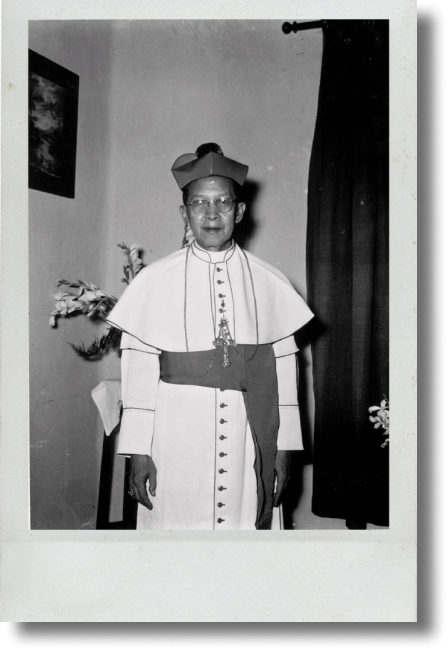
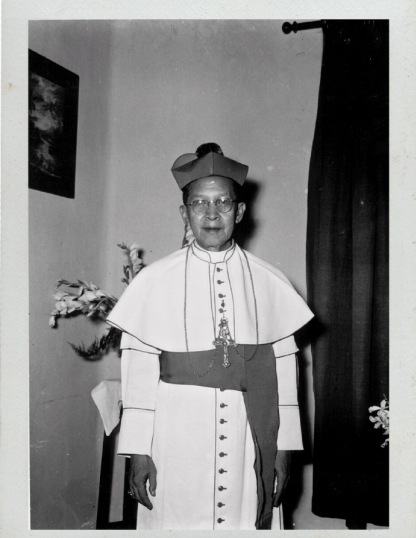
mengubah desain gambar pada halaman sejarah

diff --git a/sejarah.html b/sejarah.html
@@ -90,11 +90,13 @@
     <section class="container-fluid" id="sejarah">
         <div class="row sejarah-item sejarah-white">
             <div class="col-sm">
-                <img class="img-fluid" src="assets/img/gambar-sejarah.png" alt="">
+                <div class="img-container">
+                    <img class="img-fluid" src="assets/img/gambar-sejarah.png" alt="">
+                    <h4>Arsip SMA Kolose De Britto</h4>
+                </div>
             </div>
 
             <div class="col-sm">
-                <h1>Arsip SMA Kolese De Britto</h1>
                 <p>
                     SMA yang lebih dikenal dengan nama De Britto atau “JB” (kependekan dari Johanes De Britto) ini
                     mempunyai
@@ -169,13 +171,19 @@
             </div>
 
             <div class="col-sm">
-                <img src="assets/img/gambar-sejarah-2.png" class="img-fluid">
+                <div class="img-container">
+                    <img src="assets/img/gambar-sejarah-2.png" class="img-fluid">
+                </div>
+
             </div>
         </div>
 
         <div class="row sejarah-item sejarah-white">
             <div class="col-sm">
-                <img class="img-fluid" src="assets/img/gambar-sejarah-3.png" alt="">
+                <div class="img-container">
+                    <img class="img-fluid" src="assets/img/gambar-sejarah-3.png" alt="">
+                    <h4>Arsip SMA Kolose De Britto</h4>
+                </div>
             </div>
 
             <div class="col-sm">

diff --git a/css/addition.css b/css/addition.css
@@ -758,7 +758,7 @@ footer .logo-jb {
     border: none;
     border-radius: 0;
     font-family: poppins;
-
+    transition: background-color 0.2s ease;
 }
 
 .dropdown-item {
@@ -771,7 +771,7 @@ footer .logo-jb {
 @media (min-width: 992px) {
     .dropdown-menu {
         margin-top: 20px !important;
-        background: rgba(255, 255, 255, 0.5);
+        background: rgba(0, 0, 0, 0.3);
     }
 
     .dropdown-item {
@@ -857,6 +857,21 @@ footer.page-section {
 
 .sejarah-item {
     padding-top: 20px;
+    padding-bottom: 20px;
+}
+
+.sejarah-item .img-container {
+    padding: 50px;
+    box-shadow: 0 0 5px 5px #00000054;
+    width: max-content;
+    background: #F7F7F7;
+    color: #000000;
+}
+
+.img-container>h4 {
+    margin-bottom: 0;
+    margin-top: 20px;
+    text-align: end;
 }
 
 /* halaman rektor */
